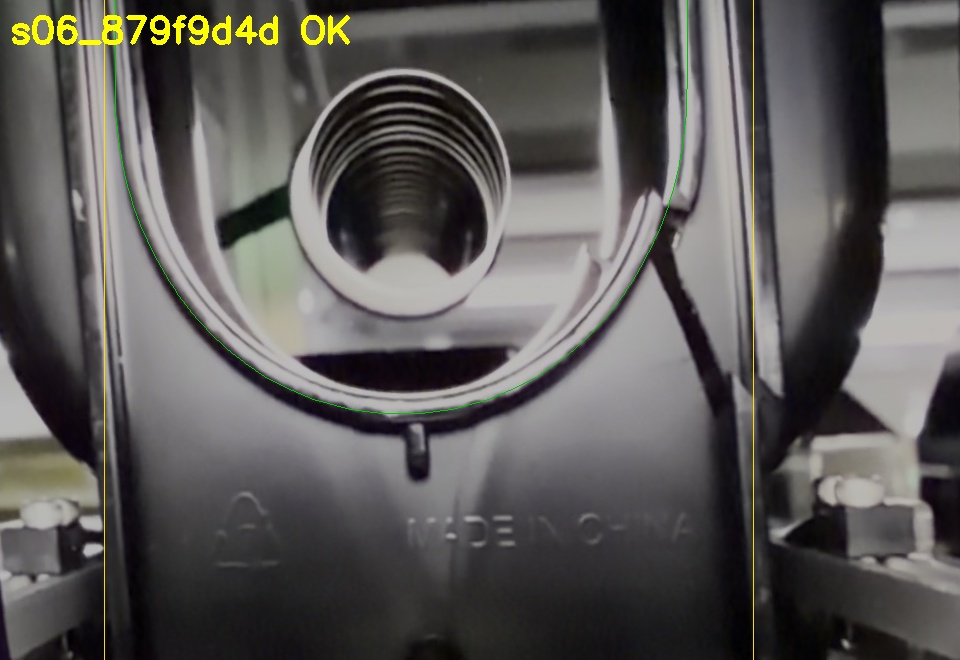
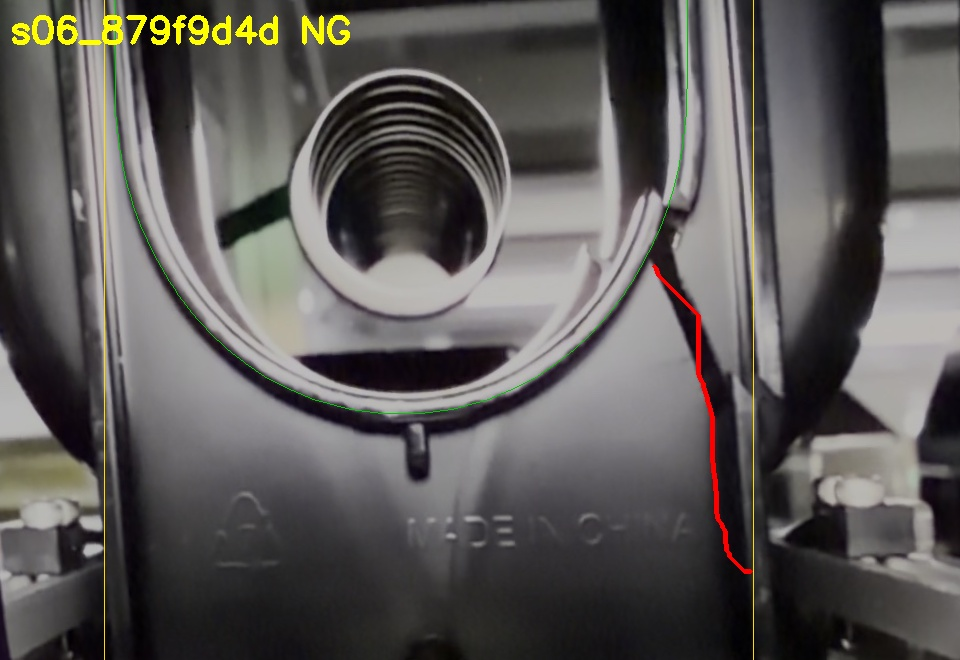
D: accept clean end-to-end crack lines even with weak rim break; OK 94/94, NG 19/20
Claude-Session: https://claude.ai/code/session_01AGHVZAzegJVfdU4wL5nFmJ

diff --git a/crack_v14/inspect_v14.py b/crack_v14/inspect_v14.py
@@ -26,6 +26,8 @@ PARAMS = dict(
     end_gap_inner=10.0,   # 割れが内側の端からこれ以上手前で止まっていたら半割れ（OK） [px]
     end_gap_outer=25.0,   # 割れが外側の端からこれ以上手前で止まっていたら半割れ（OK） [px]
     rim_break_th=0.30,    # D: 起点で縁取りがこれ以上切れていること（上げると過検出が減り、見逃しが増える）
+    solid_ratio_th=0.08,  # D: 縁取りの途切れが弱くても、ここまできれいに端から端までつながった割れ線なら NG
+    solid_gap_th=10.0,    #    （本物の割れ 0.05〜0.06 / 5px、OK品の傷・溝は 0.14 以上 / 20px 以上）
     reach_th=0.90,        # B: 漏れた光が開口部までつながっている割合
     d_lo=0.10, d_hi=0.30, # D: 相対的な暗さ（×細長さ）がこの範囲で割れらしさ 0 -> 1
     b_lo=2.5, b_hi=6.0,   # B: 周りより明るい度合いがこの範囲で割れらしさ 0 -> 1
@@ -101,7 +103,8 @@ class Inspector:
                     q["rim_break"], ri = cr.rim_break(frame, start)
                     if cr.rim_ignored(ri):
                         q["rim_break"] = 0.0                            # ゲートの切り欠きは数えない
-                    q["ng"] = q["ng"] and ends_ok and q["rim_break"] >= p["rim_break_th"]
+                    solid = q["ratio"] <= p["solid_ratio_th"] and q["max_gap"] <= p["solid_gap_th"]
+                    q["ng"] = q["ng"] and ends_ok and (q["rim_break"] >= p["rim_break_th"] or solid)
                 q.pop("prob", None)
 
         # 見つけた経路・U字の線を入力画像の座標に戻す（結果の描画と CSV 用）
